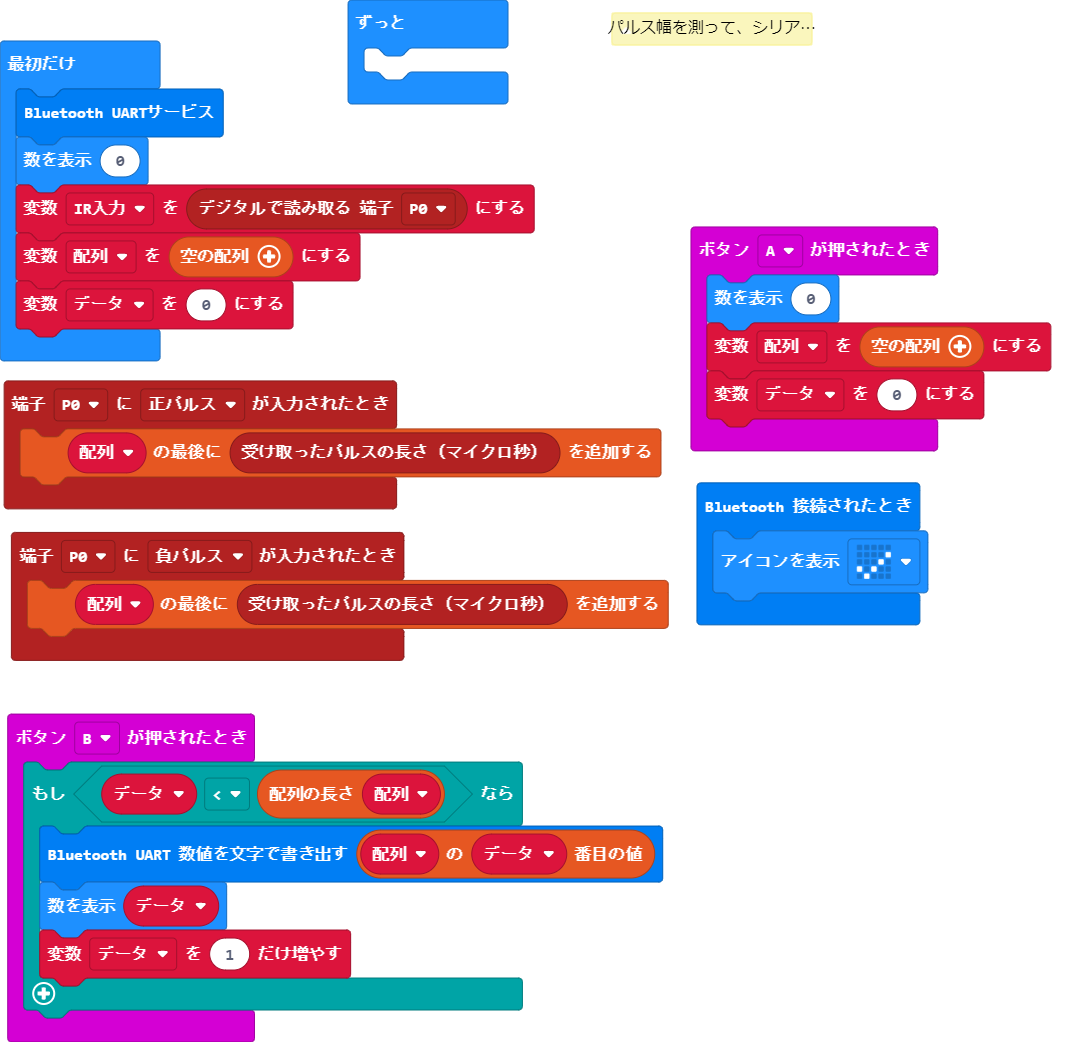
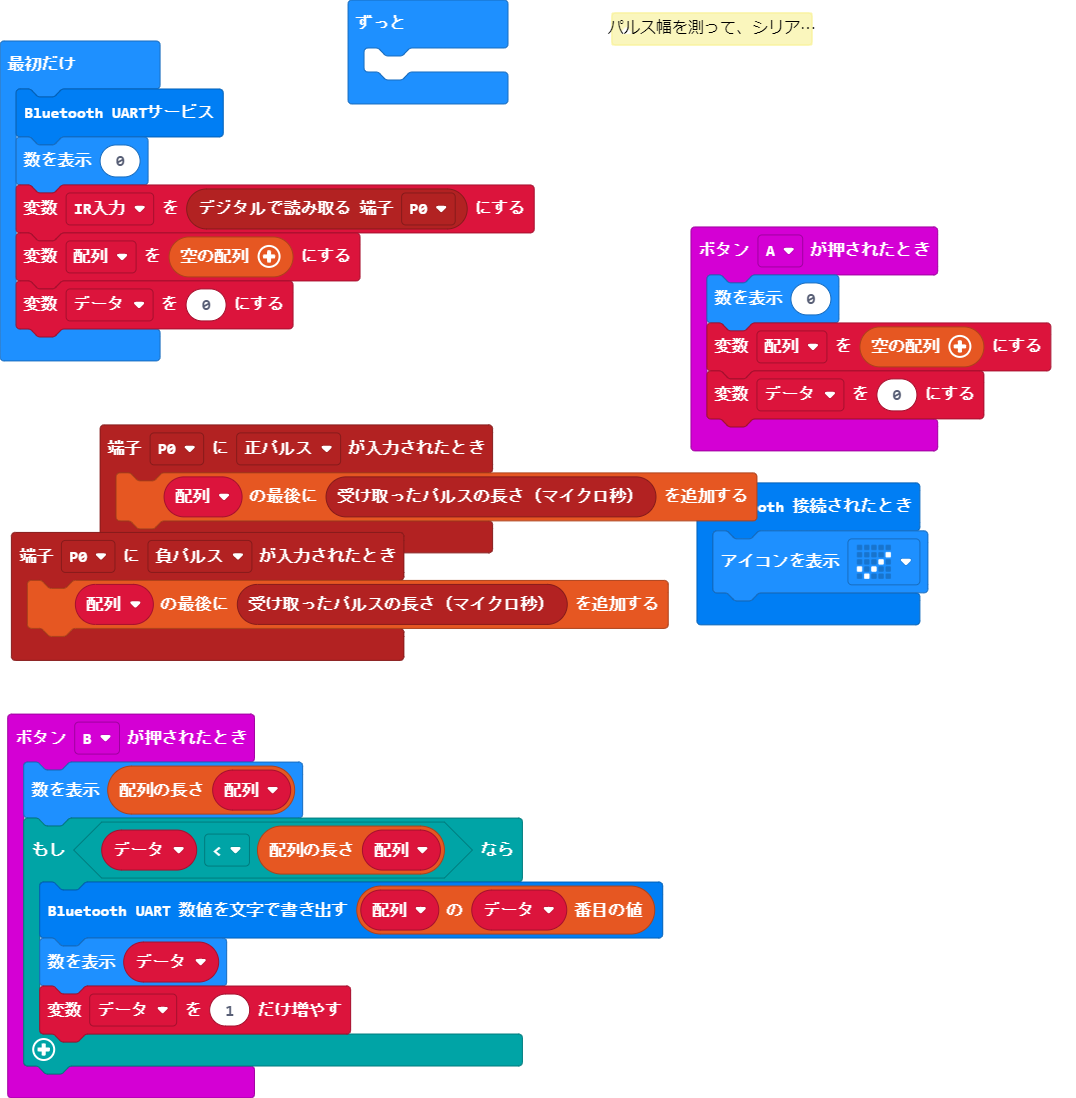
データ数表示

Changed region(s): [[0.0, 0.0307, 0.9814, 0.9827], [0.3067, 0.0, 0.46, 0.1228], [0.5827, 0.0, 0.7361, 0.0307]]

diff --git a/main.ts b/main.ts
@@ -22,6 +22,7 @@ pins.onPulsed(DigitalPin.P0, PulseValue.Low, function () {
     配列.push(pins.pulseDuration())
 })
 input.onButtonPressed(Button.B, function () {
+    basic.showNumber(配列.length)
     if (データ < 配列.length) {
         bluetooth.uartWriteNumber(配列[データ])
         basic.showNumber(データ)
